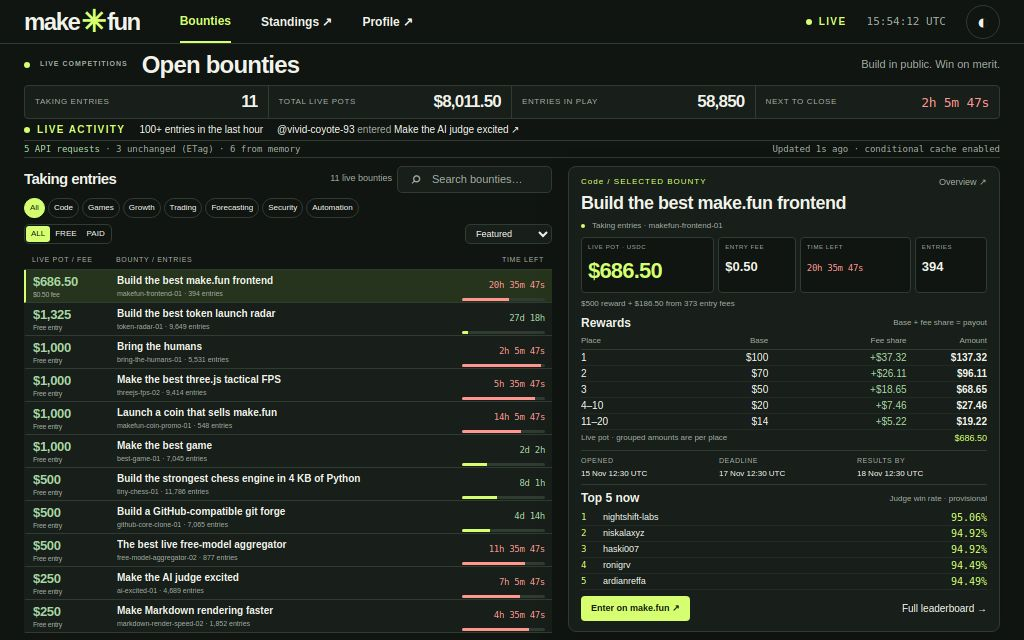
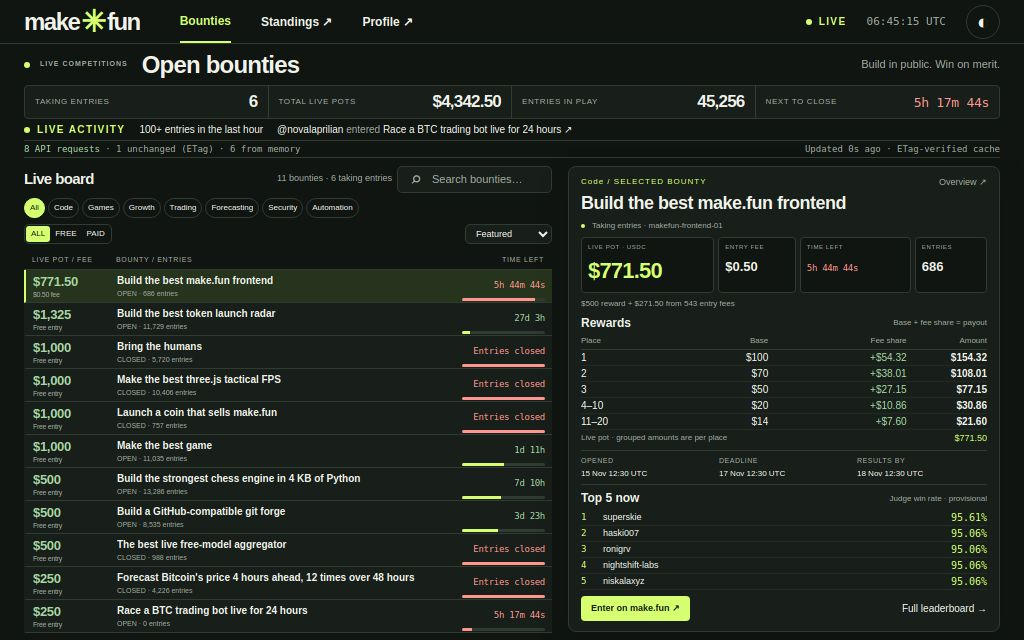
v7: split on all surfaces + virtualized leaderboard + dates rail + richer profile

diff --git a/app/main.js b/app/main.js
@@ -22,31 +22,40 @@ function card(b, i, max) {
  const progress=Math.max(2,Math.min(100,(Date.now()-Date.parse(b.publishedAt))/(Date.parse(b.deadline)-Date.parse(b.publishedAt))*100));
  return `<article class="card"><div class="card-top"><span class="category">${icons[b.category]||'✳'} ${esc(b.category)}</span>${pot(b)===max?'<span class="tag">LARGEST LIVE POT</span>':`<span class="serial">${String(i+1).padStart(2,'0')} / BOUNTY</span>`}</div><h3><a href="${url(b)}">${esc(b.title)} <span>↗</span></a></h3><p>${esc(b.summary || b.description?.split('\n')[0])}</p><div class="pot-line"><strong>${money(pot(b))}</strong><span>live pot${Number(b.entryFeesUsd)>0?`<em>+${money(b.entryFeesUsd)} in fees</em>`:'<em>funded in USDC</em>'}</span></div><div class="card-meta"><span>${Number(b.entryFeeUsd)?money(b.entryFeeUsd)+' entry':'<b>FREE</b> entry'}</span><span>${b.submissionCount.toLocaleString()} entries</span>${timer(b.deadline)}</div><div class="progress"><i style="width:${progress}%" class="${urgency(b.deadline)}"></i></div><div class="card-bottom"><span>make.fun</span><a href="${url(b)}/leaderboard">Leaderboard →</a></div></article>`;
 }
+function boardSelection(items) {
+ const active=items.filter(b=>b.status==='open');
+ const settled=items.filter(b=>b.status!=='open').sort((a,b)=>Date.parse(b.deadline)-Date.parse(a.deadline));
+ return [...active,...settled.slice(0,Math.max(0,11-active.length))];
+}
 function renderCards() {
- let items=boardItems.filter(open).filter(b=>(filter==='All'||b.category===filter)&&(feeFilter==='all'||(feeFilter==='paid')===Boolean(Number(b.entryFeeUsd)))&&`${b.title} ${b.summary} ${b.skills?.join(' ')}`.toLowerCase().includes(search.toLowerCase()));
+ let items=boardItems.filter(b=>(filter==='All'||b.category===filter)&&(feeFilter==='all'||(feeFilter==='paid')===Boolean(Number(b.entryFeeUsd)))&&`${b.title} ${b.summary} ${b.skills?.join(' ')}`.toLowerCase().includes(search.toLowerCase()));
  items.sort((a,b)=>sort==='pot'?pot(b)-pot(a):sort==='closing'?Date.parse(a.deadline)-Date.parse(b.deadline):sort==='entries'?b.submissionCount-a.submissionCount:(b.slug==='makefun-frontend-01')-(a.slug==='makefun-frontend-01')||pot(b)-pot(a));
- document.querySelector('#results-count').textContent=`${items.length} live bounties`;
+ document.querySelector('#results-count').textContent=`${items.length} bounties · ${boardItems.filter(open).length} taking entries`;
  const liveItems=boardItems.filter(open), max=liveItems.length?Math.max(...liveItems.map(pot)):0;
- document.querySelector('#cards').innerHTML=items.slice(0,page*20).map(b=>`<a class="board-row ${b.slug===selected?'selected':''}" href="${url(b)}" data-select="${esc(b.slug)}"><strong class="row-pot">${money(pot(b))}<small>${Number(b.entryFeeUsd)?money(b.entryFeeUsd)+' fee':'Free entry'}</small></strong><span class="row-title"><b>${esc(b.title)}</b><small>${esc(b.slug)} · ${Number(b.submissionCount).toLocaleString()} entries</small></span><span class="row-time">${timer(b.deadline)}<span class="progress"><i class="${urgency(b.deadline)}" style="width:${Math.max(3,Math.min(100,100*(Date.now()-Date.parse(b.publishedAt))/(Date.parse(b.deadline)-Date.parse(b.publishedAt))))}%"></i></span></span></a>`).join('')||'<div class="empty">No bounties match. Try another category or search.</div>';
+ document.querySelector('#cards').innerHTML=items.slice(0,page*20).map(b=>`<a class="board-row ${b.slug===selected?'selected':''}" href="${url(b)}" data-select="${esc(b.slug)}"><strong class="row-pot">${money(pot(b))}<small>${Number(b.entryFeeUsd)?money(b.entryFeeUsd)+' fee':'Free entry'}</small></strong><span class="row-title"><b>${esc(b.title)}</b><small>${open(b)?'OPEN':'CLOSED'} · ${Number(b.submissionCount).toLocaleString()} entries</small></span><span class="row-time">${timer(b.deadline)}<span class="progress"><i class="${urgency(b.deadline)}" style="width:${Math.max(3,Math.min(100,100*(Date.now()-Date.parse(b.publishedAt))/(Date.parse(b.deadline)-Date.parse(b.publishedAt))))}%"></i></span></span></a>`).join('')||'<div class="empty">No bounties match. Try another category or search.</div>';
  document.querySelector('#more').hidden=items.length<=page*20;
 }
 async function board() {
- const data=await get('/competitions?status=open&activity=times&limit=100'); boardItems=data.items;
- while(data.next_cursor){const next=await get('/competitions?status=open&activity=times&limit=100&cursor='+encodeURIComponent(data.next_cursor));boardItems.push(...next.items);data.next_cursor=next.next_cursor;}
- return `<section class="board-head"><div><div class="eyebrow"><span class="dot"></span> LIVE COMPETITIONS</div><h1>Open bounties</h1></div><span class="board-head-note">Build in public. Win on merit.</span></section>${stats(boardItems)}<div id="ticker" class="ticker"><span class="live">LIVE ACTIVITY</span><span>Reading the latest entries…</span></div><div class="proof"><span id="api-proof"></span><span id="freshness"></span></div><div class="master-detail"><section class="board-work"><div class="board-tools"><div class="section-title"><h2>Taking entries</h2><span id="results-count"></span></div><label class="search"><span>⌕</span><input id="search" type="search" placeholder="Search bounties…" value="${esc(search)}" aria-label="Search bounties"></label><div class="toolbar"><div class="categories">${['All','Code','Games','Growth','Trading','Forecasting','Security','Automation'].map(c=>`<button data-category="${c}" class="${filter===c?'active':''}">${c}</button>`).join('')}</div><div class="filter-actions"><div class="fee-pills">${['all','free','paid'].map(f=>`<button data-fee="${f}" class="${feeFilter===f?'active':''}">${f}</button>`).join('')}</div><select id="sort" aria-label="Sort bounties"><option value="featured">Featured</option><option value="pot">Largest pot</option><option value="closing">Closing soon</option><option value="entries">Most entries</option></select></div></div></div><div class="table-label"><span>LIVE POT / FEE</span><span>BOUNTY / ENTRIES</span><span>TIME LEFT</span></div><div class="cards" id="cards"></div><button class="load-more" id="more">Show more bounties ↓</button></section><aside id="selected-detail" class="selected-detail" aria-live="polite"></aside></div>`;
+ const data=await get('/competitions?activity=times&limit=100'); boardItems=boardSelection(data.items);
+ while(data.next_cursor){const next=await get('/competitions?activity=times&limit=100&cursor='+encodeURIComponent(data.next_cursor));boardItems.push(...next.items);data.next_cursor=next.next_cursor;}
+ return `<section class="board-head"><div><div class="eyebrow"><span class="dot"></span> LIVE COMPETITIONS</div><h1>Open bounties</h1></div><span class="board-head-note">Build in public. Win on merit.</span></section>${stats(boardItems)}<div id="ticker" class="ticker"><span class="live">LIVE ACTIVITY</span><span>Reading the latest entries…</span></div><div class="proof"><span id="api-proof"></span><span id="freshness"></span></div><div class="master-detail"><section class="board-work"><div class="board-tools"><div class="section-title"><h2>Live board</h2><span id="results-count"></span></div><label class="search"><span>⌕</span><input id="search" type="search" placeholder="Search bounties…" value="${esc(search)}" aria-label="Search bounties"></label><div class="toolbar"><div class="categories">${['All','Code','Games','Growth','Trading','Forecasting','Security','Automation'].map(c=>`<button data-category="${c}" class="${filter===c?'active':''}">${c}</button>`).join('')}</div><div class="filter-actions"><div class="fee-pills">${['all','free','paid'].map(f=>`<button data-fee="${f}" class="${feeFilter===f?'active':''}">${f}</button>`).join('')}</div><select id="sort" aria-label="Sort bounties"><option value="featured">Featured</option><option value="pot">Largest pot</option><option value="closing">Closing soon</option><option value="entries">Most entries</option></select></div></div></div><div class="table-label"><span>LIVE POT / FEE</span><span>BOUNTY / ENTRIES</span><span>TIME LEFT</span></div><div class="cards" id="cards"></div><button class="load-more" id="more">Show more bounties ↓</button></section><aside id="selected-detail" class="selected-detail" aria-live="polite"></aside></div>`;
 }
 async function selectBounty(slug) {
  const token=++selectionToken;selected=slug;renderCards();
  const panel=document.querySelector('#selected-detail');panel.innerHTML='<p class="loading">Reading bounty…</p>';
  try {
  const [b,d]=await Promise.all([bountyData(slug),leaderboardData(slug)]);
+ await Promise.all([bountyData(slug),leaderboardData(slug),get('/competitions?activity=times&limit=100')]);
  if(token!==selectionToken||!panel.isConnected)return;
+ boardItems=boardItems.map(item=>item.slug===b.slug?{...item,...b}:item);renderCards();
  const rewards=[];
  for(const r of b.rewardsNow||[]){const prev=rewards.at(-1);if(prev&&prev.baseUsd===r.baseUsd&&prev.feeShareUsd===r.feeShareUsd&&prev.amountUsd===r.amountUsd)prev.last=r.place;else rewards.push({...r,last:r.place});}
  const top=[...(d.entries||[]),...(d.rest||[])].slice(0,5);
  const nav=document.querySelector('.nav-profile');if(top[0])nav.href=profile(top[0].handle);
  panel.innerHTML=`<div class="selection-heading"><span class="category">${esc(b.category)} / SELECTED BOUNTY</span><a href="${url(b)}">Overview ↗</a></div><h2><a href="${url(b)}">${esc(b.title)}</a></h2><div class="detail-status"><span class="dot"></span>${open(b)?'Taking entries':'Entries closed'} · ${esc(b.slug)}</div><div class="mini-stats"><div class="live-pot"><small>LIVE POT · USDC</small><strong>${money(pot(b))}</strong><p>${money(b.rewardAmount)} reward + ${money(b.entryFeesUsd)} from ${Number(b.entryFeePayers||0).toLocaleString()} entry fees</p></div><div><small>ENTRY FEE</small><strong>${Number(b.entryFeeUsd)?money(b.entryFeeUsd):'Free'}</strong></div><div><small>TIME LEFT</small><strong>${timer(b.deadline)}</strong></div><div><small>ENTRIES</small><strong>${Number(b.submissionCount).toLocaleString()}</strong></div></div><div class="mini-title"><h3>Rewards</h3><span>Base + fee share = payout</span></div><table class="mini-rewards"><thead><tr><th>Place</th><th>Base</th><th>Fee share</th><th>Amount</th></tr></thead><tbody>${rewards.map(r=>`<tr><td>${r.place}${r.last!==r.place?'–'+r.last:''}</td><td>${money(r.baseUsd)}</td><td class="fee-share">+${money(r.feeShareUsd)}</td><td><b>${money(r.amountUsd)}</b></td></tr>`).join('')}</tbody><tfoot><tr><td colspan="3">Live pot · grouped amounts are per place</td><td>${money(pot(b))}</td></tr></tfoot></table><div class="mini-dates"><div><small>OPENED</small>${shortDate(b.publishedAt)}</div><div><small>DEADLINE</small>${shortDate(b.deadline)}</div><div><small>RESULTS BY</small>${resultsBy(b)}</div></div><div class="mini-title"><h3>Top 5 now</h3><span>${d.rank_key==='judge'?'Judge win rate':'Live score'} · provisional</span></div><div class="mini-leaders">${top.map((e,i)=>`<a href="${profile(e.handle)}"><span class="mini-rank">${i+1}</span><span>${esc(e.handle)}</span><strong>${esc(score(e,d))}</strong></a>`).join('')||'<p>Scores not published yet.</p>'}</div><div class="detail-actions"><a class="primary" href="https://make.fun${b.url}" target="_blank" rel="noopener">Enter on make.fun ↗</a><a href="${url(b)}/leaderboard">Full leaderboard →</a></div>`;
- tick();
+ await Promise.all([get(`/competitions/${encodeURIComponent(slug)}?submissions=summary`,true),get(`/competitions/${encodeURIComponent(slug)}/leaderboard?rows=all&ties=runs&phase=dev`,true),get('/competitions?activity=times&limit=100',true)]);
+ for(let attempt=0;telemetry.unchanged===0&&attempt<5;attempt++)await get(`/competitions/${encodeURIComponent(slug)}?submissions=summary`,true);
+ await Promise.all([bountyData(slug),leaderboardData(slug),get('/competitions?activity=times&limit=100')]);tick();
  }catch(e){if(panel.isConnected)panel.innerHTML=`<p class="empty">${esc(e.message)}</p><a href="#/bounty/${esc(slug)}">Open bounty →</a>`;}
 }
 function resultsBy(b){const text=b.resolution?.announce||'';const days=text.match(/within (\d+) day/);return days?shortDate(new Date(Date.parse(b.deadline)+Number(days[1])*86400000).toISOString()):esc(text.split(/[.;]/)[0]||'Not announced');}
@@ -64,28 +73,45 @@ function bountyHeader(b, active) {
  return `<div class="breadcrumbs"><a href="#/">Bounties</a><span>/</span><span>${esc(b.category)}</span><span>/</span><span>${active==='leaderboard'?'Leaderboard':'Overview'}</span></div><section class="detail-head"><div class="eyebrow">${icons[b.category]||'✳'} ${esc(b.category)} <span class="status ${open(b)?'green':''}">${open(b)?'TAKING ENTRIES':b.status==='resolved'?'RESOLVED':'ENTRIES CLOSED'}</span></div><h1>${esc(b.title)}</h1><p>${esc(b.summary)}</p><div class="sponsor">By <b>make.fun <span class="verified">✓</span></b><span>·</span><span>${b.submissionCount} entries</span><span>·</span><span>${Number(b.entryFeeUsd)?money(b.entryFeeUsd)+' entry fee':'Free to enter'}</span></div></section><nav class="tabs"><a class="${active==='overview'?'active':''}" href="${url(b)}">Overview</a><a class="${active==='leaderboard'?'active':''}" href="${url(b)}/leaderboard">Leaderboard <span>${b.submissionCount}</span></a><a href="${url(b)}#rules" data-rules>Rules & judging ↘</a></nav>`;
 }
 async function bounty(slug) {
- const b=await bountyData(slug);
+ const [b,standings,recent]=await Promise.all([bountyData(slug),leaderboardData(slug),get(`/competitions/${encodeURIComponent(slug)}/submissions?limit=5`)]);
  const rawRewards=b.rewardsNow||Object.entries(b.rewards||{}).map(([place,base])=>({place,baseUsd:base,feeShareUsd: Number(base)/Number(b.rewardAmount)*Number(b.entryFeesUsd||0),amountUsd:Number(base)/Number(b.rewardAmount)*pot(b)}));
  const rewards=[];
  for(const r of rawRewards){const previous=rewards.at(-1);if(previous&&previous.baseUsd===r.baseUsd&&previous.feeShareUsd===r.feeShareUsd&&previous.amountUsd===r.amountUsd){previous.lastPlace=r.place;}else rewards.push({...r,lastPlace:r.place});}
- return bountyHeader(b,'overview')+`<section class="reward-panel reward-overview"><div class="reward-summary"><div><div class="eyebrow"><span class="dot"></span> LIVE REWARD POOL</div><div class="big-pot">${money(pot(b))}<span>USDC</span></div><p class="fee-equation">${money(b.rewardAmount)} base reward <b>+ ${money(b.entryFeesUsd)}${Number(b.entryFeeUsd)?` from ${Number(b.entryFeePayers||0).toLocaleString()} entry fees`:' fees paid'}</b></p></div><div class="quick-facts"><div><small>TIME LEFT</small>${timer(b.deadline)}</div><div><small>ENTRY FEE</small><strong>${Number(b.entryFeeUsd)?money(b.entryFeeUsd):'FREE'}</strong></div><div><small>ENTRIES</small><strong>${Number(b.submissionCount||0).toLocaleString()}</strong></div></div><a class="primary" href="${url(b)}/leaderboard">Leaderboard ↗</a></div><div class="reward-label"><b>PLACE</b><span>BASE REWARD</span><span>FEE SHARE</span><span>SHARE BAR</span><span>LIVE PAYOUT</span></div>${rewards.map(r=>`<div class="reward"><span>${String(r.place).padStart(2,'0')}${r.lastPlace!==r.place?'–'+String(r.lastPlace).padStart(2,'0'):''}</span><strong class="reward-base">${money(r.baseUsd)}</strong><small class="reward-fee">+${money(r.feeShareUsd)}</small><div class="reward-bar"><i style="width:${Math.max(5,Number(r.amountUsd)/Number(rewards[0]?.amountUsd)*100)}%"></i></div><strong>${money(r.amountUsd)}</strong></div>`).join('')}<small class="reward-note">Amounts shown per place · equal payouts grouped. Fee shares reflect entry fees paid so far. Final payouts depend on awarded places.</small></section><div class="detail-grid"><article class="prose"><div class="section-title"><h2>The challenge</h2><span>BUILD / COMPETE / WIN</span></div>${markdown(b.description)}<section id="rules"><h2>Rules & judging</h2><p>${esc(b.resolution?.summary||'See the challenge requirements above.')}</p>${(b.resolution?.criteria||[]).map(c=>`<p class="bullet">${esc(c)}</p>`).join('')}<h3>How places are decided</h3><p>${esc(b.resolution?.tieBreak||'The competition’s published scoring rules apply.')}</p></section></article><aside><section class="panel dates"><h3>Competition timeline</h3><small>OPENED</small><p>${date(b.publishedAt)}</p><small>ENTRY DEADLINE</small><p>${date(b.deadline)}</p><small>STATUS</small><p>${open(b)?'Open · accepting entries':b.status==='resolved'?'Resolved':'Closed · awaiting results'}</p></section></aside></div>`;
+ return bountyHeader(b,'overview')+`<section class="reward-panel reward-overview"><div class="reward-summary"><div><div class="eyebrow"><span class="dot"></span> LIVE REWARD POOL</div><div class="big-pot">${money(pot(b))}<span>USDC</span></div><p class="fee-equation">${money(b.rewardAmount)} base reward <b>+ ${money(b.entryFeesUsd)}${Number(b.entryFeeUsd)?` from ${Number(b.entryFeePayers||0).toLocaleString()} entry fees`:' fees paid'}</b></p></div><div class="quick-facts"><div><small>TIME LEFT</small>${timer(b.deadline)}</div><div><small>ENTRY FEE</small><strong>${Number(b.entryFeeUsd)?money(b.entryFeeUsd):'FREE'}</strong></div><div><small>ENTRIES</small><strong>${Number(b.submissionCount||0).toLocaleString()}</strong></div></div><a class="primary" href="${url(b)}/leaderboard">Leaderboard ↗</a></div><div class="reward-label"><b>PLACE</b><span>BASE REWARD</span><span>FEE SHARE</span><span>SHARE BAR</span><span>LIVE PAYOUT</span></div>${rewards.map(r=>`<div class="reward"><span>${String(r.place).padStart(2,'0')}${r.lastPlace!==r.place?'–'+String(r.lastPlace).padStart(2,'0'):''}</span><strong class="reward-base">${money(r.baseUsd)}</strong><small class="reward-fee">+${money(r.feeShareUsd)}</small><div class="reward-bar"><i style="width:${Math.max(5,Number(r.amountUsd)/Number(rewards[0]?.amountUsd)*100)}%"></i></div><strong>${money(r.amountUsd)}</strong></div>`).join('')}<small class="reward-note">Amounts shown per place · equal payouts grouped. Fee shares reflect entry fees paid so far. Final payouts depend on awarded places.</small></section><div class="detail-fill"><article><section id="rules" class="detail-rules"><div class="eyebrow">HOW THIS COMPETITION WORKS</div><h2>Rules & judging</h2><p>${esc(b.resolution?.summary||b.summary)}</p><details><summary>Full requirements & tie-break</summary>${markdown(b.description)}<p>${esc(b.resolution?.tieBreak)}</p>${(b.resolution?.criteria||[]).map(c=>`<p>${esc(c)}</p>`).join('')}</details></section><section class="recent-entries"><div class="mini-title"><h3>Recent entry activity</h3><span>Live submission feed</span></div>${(recent.items||[]).map(e=>`<a href="${profile(e.handle)}"><b>@${esc(e.handle)}</b><span>${esc(e.status)}</span><small>${shortDate(e.created_at)}</small><p>${esc(e.title)}</p></a>`).join('')||'<p>No entries published yet.</p>'}</section><div class="mini-title"><h3>Top 5 now</h3><a href="${url(b)}/leaderboard">All standings ↗</a></div><div class="mini-leaders">${[...(standings.entries||[]),...(standings.rest||[])].slice(0,5).map((e,i)=>`<a href="${profile(e.handle)}"><span class="mini-rank">${i+1}</span>${esc(e.handle)}<strong>${esc(score(e,standings))}</strong></a>`).join('')}</div></article><aside class="panel phase-rail"><h3>Dates and phases</h3><dl><dt>Opened</dt><dd>${shortDate(b.publishedAt)}</dd>${(b.phases||[]).filter(p=>p.key==='dev').map(p=>`<dt>Development</dt><dd>${shortDate(p.startsAt)}<br>→ ${shortDate(p.endsAt)}</dd>`).join('')}<dt>Deadline</dt><dd>${shortDate(b.deadline)}</dd>${(b.phases||[]).filter(p=>p.key==='final').map(p=>`<dt>Final</dt><dd>${shortDate(p.startsAt)}<br>→ ${shortDate(p.endsAt)}</dd>`).join('')}<dt>Results by</dt><dd>${resultsBy(b)}</dd></dl><small>UTC · published API schedule. Results target follows the announce rule.</small></aside></div>`;
 }
-let leaders=[],leaderPage=1, leaderBoard;
+let leaders=[], leaderBoard;
 function score(row, data) {const key=data.rank_key,v=row.values?.[key]??row.rank_key_value;return key==='judge'&&v!=null?(Number(v)/10000).toFixed(2)+'%':row.display?.[key]??row.rank_key_display??v??'—';}
+let inspected=0, leaderBounty;
+const range = e => e.interval ? `${(Number(e.interval.low)/10000).toFixed(2)}–${(Number(e.interval.high)/10000).toFixed(2)}%` : 'Not published';
+const record = e => e.judge ? `${e.judge.wins}W · ${e.judge.draws}D · ${e.judge.losses}L` : 'Not published';
+const prize = e => e.prize_eligible===false ? 'Ineligible' : leaderBounty.rewardsNow?.find(r=>Number(r.place)===Number(e.prize_rank||e.rank))?.amountUsd;
+function inspectEntrant(index) {
+ inspected=index;const e=leaders[index],panel=document.querySelector('#entrant-inspector');if(!e||!panel)return;
+ panel.innerHTML=`<div class="eyebrow">ENTRANT INSPECTOR</div>${avatar(e)}<h3>${esc(e.handle)}</h3><p>${esc(e.title)}</p><dl><dt>Current place</dt><dd>#${e.rank}</dd><dt>Judge score</dt><dd>${esc(score(e,leaderBoard))}</dd><dt>90% range</dt><dd>${range(e)}</dd><dt>Win / draw / loss</dt><dd>${record(e)}</dd><dt>Projected prize</dt><dd>${prize(e)==='Ineligible'?'Ineligible':prize(e)?money(prize(e)):'Outside paid places'}</dd></dl><p class="inspector-note">Provisional · final heat decides payouts.</p><a class="primary" href="${profile(e.handle)}">Builder profile ↗</a><small>Received ${date(e.received_at)}</small>`;
+ document.querySelectorAll('[data-entrant]').forEach(row=>row.classList.toggle('chosen',Number(row.dataset.entrant)===index));
+}
 function leaderRows() {
- const slice=leaders.slice((leaderPage-1)*10,leaderPage*10);
- document.querySelector('#leader-rows').innerHTML=slice.map((e,i)=>`<div class="leader-row"><span class="place ${e.rank<=3?'podium':''}">${e.rank||((leaderPage-1)*10+i+1)}</span><div class="entrant">${avatar(e)}<div><a href="${profile(e.handle)}">${esc(e.handle)} ↗</a><p>${esc(e.title)}</p>${e.house?'<small>HOUSE BASELINE</small>':''}</div></div><strong>${esc(score(e,leaderBoard))}<small>${e.interval&&leaderBoard.rank_key==='judge'?`${(Number(e.interval.low)/10000).toFixed(1)}–${(Number(e.interval.high)/10000).toFixed(1)}% · 90% CI`:e.prize_eligible===false?'Not prize eligible':''}</small></strong></div>`).join('')||`<div class="empty">${leaderBoard.phase?.scores_visible===false?'Scores are held until results are published.':'No graded entries in this phase yet.'}</div>`;
- document.querySelector('#page-info').textContent=`Page ${leaderPage} of ${Math.max(1,Math.ceil(leaders.length/10))} · ${leaders.length} ranked entries`;
- document.querySelector('#prev').disabled=leaderPage===1;document.querySelector('#next').disabled=leaderPage*10>=leaders.length;
+ const viewport=document.querySelector('#leader-viewport');if(!viewport)return;
+ const height=62, start=Math.max(0,Math.floor(viewport.scrollTop/height)-2),end=Math.min(leaders.length,Math.ceil((viewport.scrollTop+viewport.clientHeight)/height)+2);
+ document.querySelector('#leader-rows').style.height=leaders.length*height+'px';
+ document.querySelector('#leader-window').style.transform=`translateY(${start*height}px)`;
+ document.querySelector('#leader-window').innerHTML=leaders.slice(start,end).map((e,i)=>`<button type="button" class="virtual-row ${start+i===inspected?'chosen':''}" data-entrant="${start+i}" aria-label="Inspect ${esc(e.handle)}"><span class="virtual-place">${e.rank||start+i+1}</span><span class="virtual-builder"><b>${esc(e.handle)}</b><small>${esc(e.title)}</small><em>${record(e)}</em></span><span class="virtual-score"><b>${esc(score(e,leaderBoard))}</b><small>${range(e)} · 90%</small></span><span class="virtual-prize">${prize(e)==='Ineligible'?'—':prize(e)?money(prize(e)):'—'}</span></button>`).join('');
+ document.querySelector('#dom-counter').textContent=`${document.querySelectorAll('#leader-window > .virtual-row').length} in the DOM / ${leaders.length} rows`;
 }
 async function leaderboard(slug) {
  const [b,d]=await Promise.all([bountyData(slug),leaderboardData(slug,new URLSearchParams(location.hash.split('?')[1]).get('phase')||'dev')]);
- leaderBoard=d;leaders=[...(d.entries||[]),...(d.rest||[])];leaderPage=1;
- return bountyHeader(b,'leaderboard')+`<section class="standings"><div class="section-title"><div><div class="eyebrow">THE WORK SPEAKS FOR ITSELF</div><h2>Leaderboard</h2></div><div class="phase-switch"><a class="${d.phase?.key==='dev'?'active':''}" href="${url(b)}/leaderboard?phase=dev">Development</a><a class="${d.phase?.key==='final'?'active':''}" href="${url(b)}/leaderboard?phase=final">Final</a></div></div><div class="board-note"><span class="dot"></span> ${d.phase?.placements_held?'Provisional standings · places may change':'Public standings'}<span>${money(pot(b))} live pot</span></div><div class="leader-label"><span>RANK</span><span>BUILDER / ENTRY</span><span>${esc(d.columns?.find(c=>c.key===d.rank_key)?.title||'Score')}</span></div><div id="leader-rows"></div><div class="pagination"><button id="prev">← Previous</button><span id="page-info"></span><button id="next">Next →</button></div></section>`;
+ leaderBoard=d;leaderBounty=b;leaders=[...(d.entries||[]),...(d.rest||[])];inspected=0;
+ return bountyHeader(b,'leaderboard')+`<section class="standings"><div class="section-title"><div><div class="eyebrow">WINDOWED LIVE STANDINGS</div><h2>Leaderboard</h2></div><div class="phase-switch"><a class="${d.phase?.key==='dev'?'active':''}" href="${url(b)}/leaderboard?phase=dev">Development</a><a class="${d.phase?.key==='final'?'active':''}" href="${url(b)}/leaderboard?phase=final">Final</a></div></div><div class="board-note"><span>Provisional · scroll to explore every entrant</span><b id="dom-counter"></b></div><div class="leader-layout"><div><div class="virtual-label"><span>#</span><span>BUILDER / W–D–L</span><span>SCORE / 90% RANGE</span><span>PRIZE</span></div><div id="leader-viewport" tabindex="0" aria-label="Scrollable virtualized leaderboard"><div id="leader-rows"><div id="leader-window"></div></div></div></div><aside id="entrant-inspector" class="panel"></aside></div></section>`;
+}
+async function withBoardRail(content,slug) {
+ const data=await get('/competitions?activity=times&limit=100');const current=await bountyData(slug);boardItems=boardSelection(data.items).map(item=>item.slug===slug?{...item,...current}:item);
+ return `<div class="surface-split"><aside class="live-board-rail"><div class="section-title"><h2>Live board</h2><span>${boardItems.filter(open).length} open</span></div><p>Same arena. Keep exploring.</p>${boardItems.sort((a,b)=>Number(open(b))-Number(open(a))||pot(b)-pot(a)).map(b=>`<a class="rail-bounty ${b.slug===slug?'chosen':''}" href="${url(b)}"><span><b>${esc(b.title)}</b><small>${b.submissionCount} entries · ${Number(b.entryFeeUsd)?money(b.entryFeeUsd)+' fee':'Free'}</small></span><strong>${money(pot(b))}</strong><span class="rail-time">${timer(b.deadline)}</span><span class="progress"><i class="${urgency(b.deadline)}" style="width:${Math.max(3,Math.min(100,100*(Date.now()-Date.parse(b.publishedAt))/(Date.parse(b.deadline)-Date.parse(b.publishedAt))))}%"></i></span></a>`).join('')}<a class="rail-back" href="#/">← Full board & filters</a></aside><div class="surface-content">${content}</div></div>`;
 }
 async function account(handle) {
  const p=await profileData(handle),r=p.record;
- return `<div class="breadcrumbs"><a href="#/">Bounties</a><span>/</span>Builder profile</div><section class="profile-head">${avatar(p)}<div><div class="eyebrow">PUBLIC BUILDER PROFILE</div><h1>${esc(p.display_name||p.handle)}</h1><p>@${esc(p.handle)} · Joined ${date(p.joined_at).split(',')[0]}</p>${p.bio?`<p>${esc(p.bio)}</p>`:''}</div></section><section class="stats"><div><small>COMPETITIONS ENTERED</small><strong>${r.competitions_entered}</strong></div><div><small>FIRST-PLACE WINS</small><strong>${r.competitions_won}</strong></div><div><small>PRIZE PLACEMENTS</small><strong>${r.competitions_placed}</strong></div><div><small>TOTAL PRIZES PAID</small><strong>${money(r.prize_usd)}</strong></div></section><div class="section-title"><h2>Build history <span>↘</span></h2><span>${p.solutions.length} public entries</span></div><section id="solutions">${p.solutions.slice(0,solutionLimit).map(s=>`<article class="solution"><div><span class="category">${esc(s.competition.category)} ${s.placement?'· PLACE '+s.placement:''}</span><h3><a href="#/bounty/${esc(s.competition.slug)}">${esc(s.competition.title)} ↗</a></h3><p>${esc(s.title)}</p><small>${date(s.entered_at)}</small></div><div><strong>${s.prize_usd?money(s.prize_usd):s.score?esc(s.score.column.key==='judge'?(s.score.value/10000).toFixed(2)+'%':s.score.display):'Submitted'}</strong><a href="#/bounty/${esc(s.competition.slug)}/leaderboard">View standings →</a></div></article>`).join('')||'<p class="empty">No public entries yet.</p>'}</section>${p.solutions.length>solutionLimit?'<button id="solution-more" class="load-more">Show all public entries ↓</button>':''}`;
+ const places=p.solutions.map(s=>Number(s.placement)).filter(n=>n>0), best=places.length?Math.min(...places):null;
+ const richer=`<section class="profile-derived"><div><small>BEST PLACE</small><strong>${best?'#'+best:'Unplaced'}</strong></div><div><small>PRIZE PER ENTRY</small><strong>${money(Number(r.prize_usd)/Math.max(1,p.solutions.length))}</strong></div><div><small>PLACED / WON</small><strong>${r.competitions_placed} / ${r.competitions_won}</strong></div><p>Across ${p.solutions.length} public entries · paid prizes ÷ entries</p></section>`;
+ return `<div class="breadcrumbs"><a href="#/">Bounties</a><span>/</span>Builder profile</div><section class="profile-head">${avatar(p)}<div><div class="eyebrow">PUBLIC BUILDER PROFILE</div><h1>${esc(p.display_name||p.handle)}</h1><p>@${esc(p.handle)} · Joined ${date(p.joined_at).split(',')[0]}</p>${p.bio?`<p>${esc(p.bio)}</p>`:''}</div></section><section class="stats"><div><small>COMPETITIONS ENTERED</small><strong>${r.competitions_entered}</strong></div><div><small>FIRST-PLACE WINS</small><strong>${r.competitions_won}</strong></div><div><small>PRIZE PLACEMENTS</small><strong>${r.competitions_placed}</strong></div><div><small>TOTAL PRIZES PAID</small><strong>${money(r.prize_usd)}</strong></div></section>${richer}<div class="section-title"><h2>Build history <span>↘</span></h2><span>${p.solutions.length} public entries</span></div><section id="solutions">${p.solutions.slice(0,solutionLimit).map(s=>`<article class="solution"><div><span class="category">${esc(s.competition.category)} ${s.placement?'· PLACE '+s.placement:''}</span><h3><a href="#/bounty/${esc(s.competition.slug)}">${esc(s.competition.title)} ↗</a></h3><p>${esc(s.title)}</p><small>${date(s.entered_at)}</small></div><div><strong>${s.prize_usd?money(s.prize_usd):s.score?esc(s.score.column.key==='judge'?(s.score.value/10000).toFixed(2)+'%':s.score.display):'Submitted'}</strong><a href="#/bounty/${esc(s.competition.slug)}/leaderboard">View standings →</a></div></article>`).join('')||'<p class="empty">No public entries yet.</p>'}</section>${p.solutions.length>solutionLimit?'<button id="solution-more" class="load-more">Show all public entries ↓</button>':''}`;
 }
 async function route() {
  const token=++generation;window.__shotReady=false;
@@ -95,32 +121,31 @@ async function route() {
  root.innerHTML='<p class="loading">Loading live data<span>✳</span></p>';
  try {
   let html;
-  if(parts[0]==='bounty'&&parts[1])html=parts[2]==='leaderboard'?await leaderboard(decodeURIComponent(parts[1])):await bounty(decodeURIComponent(parts[1]));
+  if(parts[0]==='bounty'&&parts[1]){const slug=decodeURIComponent(parts[1]);html=await withBoardRail(parts[2]==='leaderboard'?await leaderboard(slug):await bounty(slug),slug);}
   else if(parts[0]==='profile'&&parts[1])html=await account(decodeURIComponent(parts[1]));
   else html=await board();
   if(token!==generation)return;
   root.innerHTML=html;
   if(document.querySelector('#cards')){renderCards();document.querySelector('#sort').value=sort;await Promise.all([extras(token),selectBounty(selected)]);}
-  if(document.querySelector('#leader-rows'))leaderRows();
+  if(document.querySelector('#leader-viewport')){leaderRows();inspectEntrant(0);document.querySelector('#leader-viewport').addEventListener('scroll',leaderRows,{passive:true});}
   document.title=(root.querySelector('h1')?.textContent||'Bounties')+' | make.fun';
  }catch(e){if(token===generation)root.innerHTML=`<div class="empty"><h1>Let’s try that again.</h1><p>${esc(e.message)}</p><button id="retry">Retry live data</button> <a href="#/">Back to bounties</a></div>`;}
  if(token===generation){root.removeAttribute('aria-busy');tick();window.__shotReady=true;window.scrollTo(0,0);}
 }
 root.addEventListener('click',e=>{
+ const entrant=e.target.closest('[data-entrant]');if(entrant)inspectEntrant(Number(entrant.dataset.entrant));
  const row=e.target.closest('[data-select]');if(row){e.preventDefault();selectBounty(row.dataset.select);}
  const c=e.target.closest('[data-category]'),f=e.target.closest('[data-fee]');
  if(c){filter=c.dataset.category;page=1;document.querySelectorAll('[data-category]').forEach(b=>b.classList.toggle('active',b===c));renderCards();}
  if(f){feeFilter=f.dataset.fee;page=1;document.querySelectorAll('[data-fee]').forEach(b=>b.classList.toggle('active',b===f));renderCards();}
  if(e.target.id==='solution-more'){solutionLimit=Infinity;route();}
  if(e.target.id==='more'){page++;renderCards();}
- if(e.target.id==='prev'){leaderPage--;leaderRows();}
- if(e.target.id==='next'){leaderPage++;leaderRows();}
- if(e.target.id==='retry')route();
+  if(e.target.id==='retry')route();
  if(e.target.closest('[data-rules]')){e.preventDefault();const section=document.querySelector('#rules');if(section)section.scrollIntoView({behavior:'smooth'});else{location.hash='#/bounty/'+location.hash.split('/')[2];setTimeout(()=>document.querySelector('#rules')?.scrollIntoView(),700);}}
 });
 root.addEventListener('input',e=>{if(e.target.id==='search'){search=e.target.value;page=1;renderCards();}});
 root.addEventListener('change',e=>{if(e.target.id==='sort'){sort=e.target.value;page=1;renderCards();}});
 try{document.documentElement.dataset.theme=localStorage.getItem('theme')||'dark';}catch{}
 document.querySelector('#theme').onclick=()=>{const t=document.documentElement.dataset.theme==='light'?'dark':'light';document.documentElement.dataset.theme=t;try{localStorage.setItem('theme',t);}catch{}};
-function tick(){const proof=document.querySelector('#api-proof');if(proof)proof.innerHTML=`<b>${telemetry.requests} API requests</b> · ${telemetry.unchanged} unchanged (ETag) · ${telemetry.memory} from memory`;const freshness=document.querySelector('#freshness');if(freshness)freshness.textContent=`Updated ${Math.max(0,Math.floor((Date.now()-telemetry.updatedAt)/1000))}s ago · conditional cache enabled`;document.querySelector('#clock').textContent=new Date().toISOString().slice(11,19)+' UTC';document.querySelectorAll('[data-deadline]').forEach(el=>{el.textContent=left(el.dataset.deadline);el.className='time '+urgency(el.dataset.deadline);});}
+function tick(){const proof=document.querySelector('#api-proof');if(proof)proof.innerHTML=`<b>${telemetry.requests} API requests</b> · ${telemetry.unchanged} unchanged (ETag) · ${telemetry.memory} from memory`;const freshness=document.querySelector('#freshness');if(freshness)freshness.textContent=`Updated ${Math.max(0,Math.floor((Date.now()-telemetry.updatedAt)/1000))}s ago · ETag-verified cache`;document.querySelector('#clock').textContent=new Date().toISOString().slice(11,19)+' UTC';document.querySelectorAll('[data-deadline]').forEach(el=>{el.textContent=left(el.dataset.deadline);el.className='time '+urgency(el.dataset.deadline);});}
 setInterval(tick,1000);tick();window.addEventListener('hashchange',route);route();

diff --git a/app/style.css b/app/style.css
@@ -65,3 +65,9 @@ header nav .nav-board{border-bottom:0}header nav a[aria-current=page]{border-bot
 @media(min-width:781px){.profile-head{padding:14px 0}.profile-head>img,.profile-head>.avatar{width:56px;height:56px}.profile-head h1{font-size:28px;margin:7px 0}.profile-head p{font-size:11px}.profile-head+.stats{margin-bottom:12px}.solution{padding:8px 0}.solution h3{margin:3px 0;font-size:15px}.solution p{margin-bottom:2px}.solution strong{margin-top:4px}.solution>div>a{margin-top:6px}.solution>div:first-child{min-width:0}.solution p{white-space:nowrap;overflow:hidden;text-overflow:ellipsis;max-width:720px}}
 
 .avatar{position:relative;background:#34452b}.avatar>img{position:absolute;inset:0;width:100%;height:100%;font-size:0}
+/* v7: persistent live context and bounded DOM standings. */
+.surface-split{display:grid;grid-template-columns:222px minmax(0,1fr);gap:20px;padding-top:14px;align-items:start}.surface-content{min-width:0}.live-board-rail{border:1px solid var(--line);border-radius:7px;background:var(--panel);overflow:hidden}.live-board-rail .section-title{padding:12px 10px 0;margin:0}.live-board-rail h2{font-size:16px}.live-board-rail>p{font-size:9px;color:var(--muted);padding:3px 10px 9px}.rail-bounty{padding:9px 10px;display:grid;grid-template-columns:1fr auto;gap:3px 5px;border-top:1px solid var(--line)}.rail-bounty b{display:block;font-size:10px;line-height:1.3}.rail-bounty small{display:block;color:var(--muted);font-size:8px;margin-top:3px}.rail-bounty strong{font-size:12px;color:var(--accent)}.rail-time{grid-column:1/-1}.rail-time .time{font-size:9px}.rail-bounty .progress{grid-column:1/-1;margin:2px 0 0;height:2px}.chosen{background:#293821!important;border-color:#779b43!important}.rail-back{display:block;font-size:10px;padding:10px;border-top:1px solid var(--line)}.surface-content .breadcrumbs{padding:0;font-size:9px}.surface-content .detail-head{padding:8px 0}.surface-content .detail-head h1{font-size:25px;margin:6px 0}.surface-content .detail-head>p{font-size:10px;line-height:1.5}.surface-content .sponsor{font-size:9px;margin-top:6px}.surface-content .tabs{margin-bottom:10px;gap:22px}.surface-content .reward-overview{padding:10px 12px;margin-bottom:12px}.surface-content .reward-summary{grid-template-columns:1fr auto;gap:8px;padding-bottom:5px}.surface-content .reward-summary .big-pot{font-size:29px}.surface-content .reward-summary>.primary{display:none}.surface-content .quick-facts{gap:14px}.surface-content .quick-facts small{font-size:7px}.surface-content .quick-facts strong,.surface-content .quick-facts .time{font-size:10px}.surface-content .fee-equation{font-size:9px}.surface-content .reward-label,.surface-content .reward{grid-template-columns:45px 1fr 75px 1fr 80px;gap:8px}.surface-content .reward-label{font-size:8px;padding:5px 0}.surface-content .reward{min-height:23px;padding:2px 0}.surface-content .reward strong{font-size:11px}.surface-content .reward-fee,.surface-content .reward>span{font-size:9px}.surface-content .reward-note{font-size:8px;margin-top:7px}.detail-fill{display:grid;grid-template-columns:minmax(0,1fr) 195px;gap:16px}.detail-rules h2{font-size:17px;margin:3px 0 5px}.detail-rules p{font-size:11px;line-height:1.6;color:var(--muted)}.detail-rules details{font-size:10px;margin-top:6px}.detail-rules summary{color:var(--accent);cursor:pointer}.recent-entries{margin-top:12px}.recent-entries>a{display:grid;grid-template-columns:1fr auto;gap:2px;border-bottom:1px solid var(--line);padding:6px 0;font-size:10px}.recent-entries>a>span{font-size:8px;color:var(--green)}.recent-entries small{font-size:8px;color:var(--muted)}.recent-entries p{grid-column:1/-1;white-space:nowrap;overflow:hidden;text-overflow:ellipsis;font-size:9px;color:var(--muted)}.phase-rail{padding:12px;margin:0}.phase-rail h3{font-size:13px}.phase-rail dl{margin:8px 0}.phase-rail dt{font-size:8px;text-transform:uppercase;color:var(--accent);letter-spacing:.7px;margin-top:10px}.phase-rail dd{font-size:10px;margin:2px 0;line-height:1.6}.phase-rail>small{font-size:8px;color:var(--muted)}.leader-layout{display:grid;grid-template-columns:minmax(0,1fr) 186px;gap:12px}.standings .board-note{justify-content:space-between;font-size:9px;padding:8px}.board-note b{color:var(--accent);font:9px monospace}.virtual-label,.virtual-row{display:grid;grid-template-columns:24px minmax(0,1fr) 100px 48px;gap:7px;align-items:center}.virtual-label{font-size:7px;color:var(--muted);padding:9px 7px}.virtual-row{height:62px;min-height:62px;padding:6px 7px;border:0;border-bottom:1px solid var(--line);border-radius:0;width:100%;text-align:left;background:var(--panel)}.virtual-place{font:12px monospace;color:var(--accent)}.virtual-builder{min-width:0}.virtual-builder b{display:block;font-size:11px;white-space:nowrap;overflow:hidden;text-overflow:ellipsis}.virtual-builder small{display:block;font-size:8px;white-space:nowrap;overflow:hidden;text-overflow:ellipsis;color:var(--muted)}.virtual-builder em{font-size:9px;font-style:normal;color:var(--green)}.virtual-score b{display:block;font:15px monospace}.virtual-score small{font-size:8px;color:var(--muted)}.virtual-prize{font-size:10px;color:var(--accent);text-align:right}#leader-viewport{height:388px;overflow:auto;overscroll-behavior:contain;border:1px solid var(--line);scrollbar-color:var(--accent) var(--panel)}#leader-rows{position:relative}#leader-window{position:absolute;top:0;left:0;right:0}#entrant-inspector{padding:12px;align-self:start}#entrant-inspector>.avatar{margin-top:13px;width:42px;height:42px}#entrant-inspector h3{font-size:15px;margin:8px 0}#entrant-inspector>p{font-size:10px;color:var(--muted);line-height:1.5}#entrant-inspector dl{margin:12px 0}#entrant-inspector dt{font-size:8px;color:var(--muted);margin-top:10px}#entrant-inspector dd{font-size:12px;margin:2px 0}#entrant-inspector .primary{font-size:9px;margin:12px 0 8px;padding:8px}#entrant-inspector>small{font-size:8px;color:var(--muted)}.profile-derived{display:grid;grid-template-columns:repeat(3,1fr);border:1px solid var(--line);padding:12px 16px;gap:10px;margin:0 0 18px;background:var(--panel)}.profile-derived small{font-size:9px;color:var(--muted);display:block}.profile-derived strong{font-size:23px;color:var(--accent)}.profile-derived p{grid-column:1/-1;font-size:10px;color:var(--muted)}
+@media(max-width:780px){.surface-split{grid-template-columns:1fr}.live-board-rail{max-height:180px;overflow:auto}.leader-layout{grid-template-columns:1fr}.detail-fill{grid-template-columns:1fr}.phase-rail{grid-row:1}.virtual-label,.virtual-row{grid-template-columns:22px minmax(0,1fr) 93px 44px}.surface-content .reward-label,.surface-content .reward{grid-template-columns:35px 1fr 60px 1fr 65px;gap:4px}.surface-content .quick-facts{gap:5px}.surface-content .reward-summary{grid-template-columns:1fr}}
+@media(min-width:781px){.surface-content .reward-summary{margin:0;min-height:0}.surface-content .reward-label{margin-top:6px}.surface-content .reward{height:23px}.surface-content .reward small{grid-column:auto;margin:0;text-align:left}.surface-content .reward-overview .reward{grid-template-columns:45px 1fr 75px 1fr 80px}.surface-content .detail-head>p{display:none}.surface-content .detail-head h1{font-size:24px}.surface-content .detail-head{padding:6px 0}.surface-content .tabs a{padding:5px 0}.surface-content .reward-overview{padding:9px 12px}.rail-bounty{padding:6px 9px}.rail-bounty b{font-size:9px}.rail-bounty small{font-size:7px}.rail-bounty strong{font-size:11px}.rail-time .time{font-size:8px}.rail-bounty .progress{margin-top:0}.phase-rail dt{margin-top:7px}.phase-rail dd{font-size:9px}.detail-fill{grid-template-columns:minmax(0,1fr) 195px}.detail-rules p{font-size:10px;line-height:1.5}#entrant-inspector dt{margin-top:6px}#entrant-inspector dd{font-size:11px}#entrant-inspector>.avatar{margin-top:8px}#entrant-inspector h3{margin:5px 0}.virtual-row{font-size:11px}}
+@media(min-width:781px){.surface-content .reward-overview .reward{height:20px;min-height:20px;padding:0}.surface-content .reward-overview .reward-label{margin-top:2px}.surface-content .reward-overview .reward-summary{padding-bottom:2px}.surface-content .reward-summary .big-pot{font-size:26px;margin:3px 0}.surface-content .reward-overview{margin-bottom:9px}.surface-content .detail-head h1{font-size:23px;margin:3px 0}.surface-content .sponsor{margin-top:3px}.surface-content .detail-head{padding:4px 0}.surface-content .tabs{margin-bottom:8px}.phase-rail{padding:10px}.phase-rail dt{margin-top:5px;font-size:7px}.phase-rail dd{font-size:9px;line-height:1.35}.phase-rail dl{margin:4px 0}.phase-rail>small{font-size:7px;line-height:1.3;display:block}.phase-rail h3{font-size:12px}#entrant-inspector>.avatar{width:28px;height:28px;margin-top:6px}#entrant-inspector h3{font-size:14px;margin:4px 0}#entrant-inspector>p{font-size:9px;line-height:1.35}#entrant-inspector dl{margin:8px 0}#entrant-inspector dt{font-size:7px;margin-top:5px}#entrant-inspector .inspector-note{font-size:8px}#entrant-inspector .primary{margin:7px 0 5px;padding:6px}.standings h2{font-size:22px}.standings .section-title{margin:6px 0}.surface-split:has(.standings) .detail-head{padding:3px 0}}
+.avatar>img{background:transparent}

diff --git a/app/api.js b/app/api.js
@@ -7,12 +7,14 @@ export async function get(path, force = false) {
   if (!force && old && Date.now() - old.at < 60000) { telemetry.memory++; return old.data; }
   if (pending.has(path)) return pending.get(path);
   const request = (async () => {
-    const headers = old?.etag ? { 'If-None-Match': old.etag } : {};
+    // Compare exposed ETags after revalidation: the CDN's 304 response omits CORS headers.
+    const headers = {};
     telemetry.requests++;
-    const res = await fetch('https://make.fun/api' + path, { headers, cache: 'no-cache' });
+    const res = await fetch('https://make.fun/api' + path, { headers, cache: 'no-store' });
     if (res.status === 304 && old) { telemetry.unchanged++; telemetry.updatedAt = Date.now(); old.at = Date.now(); return old.data; }
     if (!res.ok) throw new Error(res.status === 404 ? 'This page could not be found.' : `Live data is temporarily unavailable (${res.status}).`);
     const data = await res.json();
+    if (old?.etag && old.etag === res.headers.get('etag')) telemetry.unchanged++;
     telemetry.updatedAt = Date.now();
     cache.set(path, { data, etag: res.headers.get('etag'), at: Date.now() });
     saveCache();
@@ -22,5 +24,5 @@ export async function get(path, force = false) {
   try { return await request; } finally { pending.delete(path); }
 }
 export const bountyData = slug => get(`/competitions/${encodeURIComponent(slug)}?submissions=summary`);
-export const leaderboardData = (slug, phase = 'dev') => get(`/competitions/${encodeURIComponent(slug)}/leaderboard?rows=first&ties=runs&phase=${phase}`);
+export const leaderboardData = (slug, phase = 'dev') => get(`/competitions/${encodeURIComponent(slug)}/leaderboard?rows=all&ties=runs&phase=${phase}`);
 export const profileData = handle => get(`/profiles/${encodeURIComponent(handle)}`);

diff --git a/main.ts b/main.ts
@@ -1,9 +1,11 @@
-import { cpSync, mkdirSync, writeFileSync } from 'node:fs';
+import { cpSync, mkdirSync, writeFileSync, readdirSync } from 'node:fs';
 import { fileURLToPath } from 'node:url';
 import { resolve, join } from 'node:path';
 import { buildDossier } from './vendor/makefun-frontend.ts';
 const source = fileURLToPath(new URL('.', import.meta.url));
 const target = resolve(process.env.MAKEFUN_OUTPUT_DIR || '/output');
+const shotFiles = readdirSync(join(source, 'screenshots')).filter(name => /\.(jpg|jpeg|png)$/i.test(name));
+if (shotFiles.length !== 3 || !shotFiles.includes('3-leaderboard.jpg')) throw new Error('Expected board, bounty and leaderboard captures.');
 mkdirSync(target, { recursive: true });
 for (const folder of ['app', 'screenshots']) cpSync(join(source, folder), join(target, folder), { recursive: true });
 const dossier = buildDossier(target, { text_max_bytes: 163840, screenshots: { max: 3, max_bytes: 262144 }, app_max_files: 993, app_max_bytes: 16777216 });
